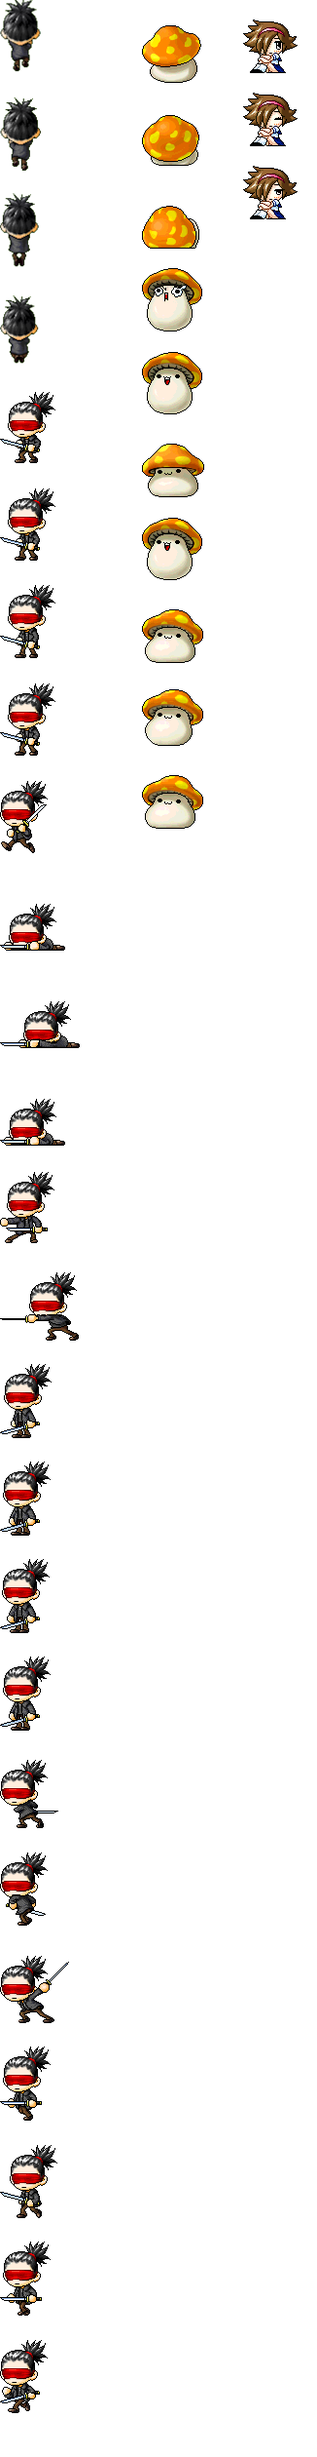
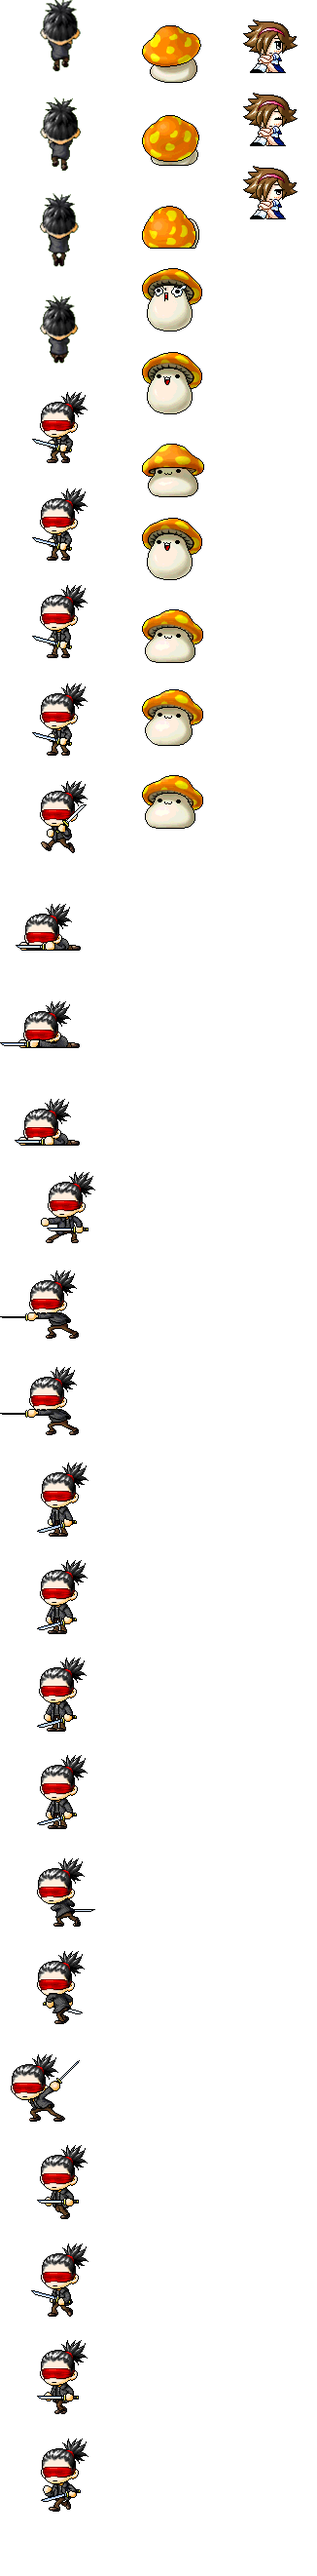
- animations fixed

Changed region(s): [[0.0, 0.0, 0.2761, 0.9905], [0.4294, 0.0, 0.6442, 0.3405], [0.7669, 0.0, 0.9202, 0.0929]]

diff --git a/src/Player.cpp b/src/Player.cpp
@@ -1,6 +1,6 @@
 #include "Player.h"
 
-constexpr auto PlayerSpeed = 80.f;
+constexpr auto PlayerSpeed = 110.f;
 constexpr auto AttackSpeed = 0.8f;
 
 Direction Player::keyToDirection()
@@ -12,7 +12,7 @@ Direction Player::keyToDirection()
         { sf::Keyboard::Right, Direction::Right },
         { sf::Keyboard::Left,  Direction::Left },
         { sf::Keyboard::Up,    Direction::Up },
-        { sf::Keyboard::Down,  Direction::Down },
+        { sf::Keyboard::Down,  Direction::Prone},
         { sf::Keyboard::LControl,  Direction::Attack1 },
         { sf::Keyboard::LAlt,  Direction::Jump },
     };
@@ -32,11 +32,19 @@ Direction Player::keyToDirection()
             case sf::Keyboard::Up:
                 break;
             case sf::Keyboard::Down:
-                break;
+                m_prone = true;
+                continue;
             case sf::Keyboard::LControl:
             {
                 m_attack = true;
                 m_attackTime.restart();
+                m_animation.resetAnimation();
+
+                if (m_prone)
+                {
+                    return Direction::ProneStab;
+                }
+
                 int attackType = rand() % 2;
                 if (attackType == 0)
                 {
@@ -44,29 +52,32 @@ Direction Player::keyToDirection()
                 }
                 return Direction::Attack2;
             }
-            break;
             }
+            m_prone = false;
             return pair.second;
         }
+    }
+    if (m_prone)
+    {
+        m_prone = false;
+        return Direction::Prone;
     }
     return Direction::Stay;
 }
 
 Player::Player(const sf::Vector2f& position)
-    : movingObject(position),
-      m_animation(Resources::instance().animationData(Resources::Player), Direction::Stay, m_sp),
-      m_attack(false), framesLeft(3)
+    : movingObject(position, Resources::Player),
+      m_attack(false), m_prone(false)
 {
-    m_sp.setOrigin(sf::Vector2f(getGlobalBounds().width / 4.f, getGlobalBounds().height / 1.5f));
+    m_sp.setOrigin(sf::Vector2f(getGlobalBounds().width / 1.7f, getGlobalBounds().height / 1.5f));
 }
 
 Player::Player(const sf::Vector2f& position, const sf::Vector2f& mapSize,
                const sf::Vector2f& resolution)
-    : movingObject(position, mapSize, resolution), 
-      m_animation(Resources::instance().animationData(Resources::Player), Direction::Stay, m_sp),
-      m_attack(false), framesLeft(3)
+    : movingObject(position, mapSize, resolution, Resources::Player),
+      m_attack(false), m_prone(false)
 {
-    m_sp.setOrigin(sf::Vector2f(getGlobalBounds().width / 4.f, getGlobalBounds().height / 1.5f));
+    m_sp.setOrigin(sf::Vector2f(getGlobalBounds().width / 1.7f, getGlobalBounds().height / 1.5f));
 }
 
 void Player::update(sf::Time delta)
@@ -74,32 +85,11 @@ void Player::update(sf::Time delta)
     // can't move during attack
     if (m_attackTime.getElapsedTime().asSeconds() >= AttackSpeed)
     {
-        m_attack = false;
-
-        // check for key input
-        m_dir = keyToDirection();
+        m_dir = keyToDirection();   // check for key input
     }
-    // move & animate player
+
+    // animate & move player
     m_animation.direction(m_dir);
     m_animation.update(delta);
-    m_sp.move(toVector(m_dir) * delta.asSeconds() * PlayerSpeed);   
+    m_sp.move(toVector(m_dir) * delta.asSeconds() * PlayerSpeed);    
 }
-
-void Player::direction(sf::Keyboard::Key key)
-{
-    /*if (auto dir = toDirection(key))
-    {
-        m_dir = *dir;
-
-        if (m_dir == Direction::Right)
-        {
-            m_sp.setScale(-1.f, 1.f);
-        }
-        else if (m_dir == Direction::Left)
-        {
-            m_sp.setScale(1.f, 1.f);
-        }
-        m_animation.direction(*dir);
-    }*/
-}
-

diff --git a/src/Resources.cpp b/src/Resources.cpp
@@ -41,7 +41,7 @@ namespace
 
     AnimationData playerData()
     {
-        const auto size = sf::Vector2i(80, 80);
+        const auto size = sf::Vector2i(110, 80);
         const auto initSpace = sf::Vector2i(0, 2);
         const auto middleSpace = sf::Vector2i(0, 20);
 
@@ -68,8 +68,14 @@ namespace
         player.m_data[Direction::Prone].emplace_back(nextStart(), size);
         player.m_data[Direction::ProneStab].emplace_back(nextStart(), size);
         player.m_data[Direction::ProneStab].emplace_back(nextStart(), size);
+        player.m_data[Direction::ProneStab].emplace_back(currentStart, size);
+        player.m_data[Direction::ProneStab].emplace_back(currentStart, size);
+        player.m_data[Direction::ProneStab].emplace_back(currentStart, size);
         player.m_data[Direction::Attack1].emplace_back(nextStart(), size);
         player.m_data[Direction::Attack1].emplace_back(nextStart(), size);
+        player.m_data[Direction::Attack1].emplace_back(nextStart(), size);
+        player.m_data[Direction::Attack1].emplace_back(currentStart, size);
+        player.m_data[Direction::Attack1].emplace_back(currentStart, size);
         player.m_data[Direction::Stay].emplace_back(nextStart(), size);
         player.m_data[Direction::Stay].emplace_back(nextStart(), size);
         player.m_data[Direction::Stay].emplace_back(nextStart(), size);
@@ -77,6 +83,8 @@ namespace
         player.m_data[Direction::Attack2].emplace_back(nextStart(), size);
         player.m_data[Direction::Attack2].emplace_back(nextStart(), size);
         player.m_data[Direction::Attack2].emplace_back(nextStart(), size);
+        player.m_data[Direction::Attack2].emplace_back(currentStart, size);
+        player.m_data[Direction::Attack2].emplace_back(currentStart, size);
         player.m_data[Direction::Left].emplace_back(nextStart(), size);
         player.m_data[Direction::Right].emplace_back(currentStart, size);
         player.m_data[Direction::Left].emplace_back(nextStart(), size);

diff --git a/src/Monster.cpp b/src/Monster.cpp
@@ -2,19 +2,17 @@
 
 #include "Resources.h"
 
-constexpr auto MonsterSpeed = 80.f;
+constexpr auto MonsterSpeed = 110.f;
 
-Monster::Monster(const sf::Vector2f& position)
-    : movingObject(position),
-    m_animation(Resources::instance().animationData(Resources::Mushroom), Direction::Stay, m_sp)
+Monster::Monster(const sf::Vector2f& position, Resources::Objects object)
+    : movingObject(position, object)
 {
     m_sp.setOrigin(sf::Vector2f(getGlobalBounds().width / 4.f, getGlobalBounds().height / 1.5f));
 }
 
 Monster::Monster(const sf::Vector2f& position, const sf::Vector2f& mapSize,
-    const sf::Vector2f& resolution)
-    : movingObject(position, mapSize, resolution),
-    m_animation(Resources::instance().animationData(Resources::Mushroom), Direction::Stay, m_sp)
+    const sf::Vector2f& resolution, Resources::Objects object)
+    : movingObject(position, mapSize, resolution, object)
 {
     m_sp.setOrigin(sf::Vector2f(getGlobalBounds().width / 4.f, getGlobalBounds().height / 1.5f));
 }

diff --git a/src/movingObject.cpp b/src/movingObject.cpp
@@ -1,14 +1,16 @@
 #pragma once
 #include "movingObject.h"
 
-movingObject::movingObject(const sf::Vector2f& position)
-	: gameObject(position)
+movingObject::movingObject(const sf::Vector2f& position, Resources::Objects object)
+	: gameObject(position),
+	  m_animation(Resources::instance().animationData(object), Direction::Stay, m_sp)
 {
 }
 
 movingObject::movingObject(const sf::Vector2f& position, const sf::Vector2f& mapSize,
-	                       const sf::Vector2f& resolution)
-	: gameObject(position, mapSize, resolution)
+	                       const sf::Vector2f& resolution, Resources::Objects object)
+	: gameObject(position, mapSize, resolution),
+	  m_animation(Resources::instance().animationData(object), Direction::Stay, m_sp)
 {
 }
 

diff --git a/src/Animation.cpp b/src/Animation.cpp
@@ -2,7 +2,7 @@
 
 #include "Resources.h"
 
-const auto AnimationTime = sf::seconds(0.3f);
+const auto AnimationTime = sf::seconds(0.2f);
 
 Animation::Animation(const AnimationData& data, Direction dir, sf::Sprite& sprite)
     : m_data(data), m_dir(dir), m_sprite(sprite)
@@ -19,20 +19,26 @@ void Animation::direction(Direction dir)
     }
 
     m_dir = dir;
-    //update();
 }
 
 void Animation::update(sf::Time delta)
 {
     m_elapsed += delta;
+
     if (m_elapsed >= AnimationTime)
     {
         m_elapsed -= AnimationTime;
         ++m_index;
         m_index %= m_data.m_data.find(m_dir)->second.size();
         update();
-    }
+    } 
 }
+
+void Animation::resetAnimation()
+{
+    m_index = -1;
+}
+
 
 void Animation::update()
 {

diff --git a/src/FileReader.cpp b/src/FileReader.cpp
@@ -67,9 +67,7 @@ bool isValid(const std::vector<string>& map, std::unique_ptr<Player>& player)
 	int playerCount = 0;
 
 	sf::Vector2f position(0, 0);  // position of object's sprite
-	//sf::Vector2f mapSize(m_mapWidth, m_mapHeight);
-	//sf::Vector2f resolution(WindowWidth, WindowHeight);
-	// 
+	
 	// stores objects in vectors
 	for (int i = 0; i < map.size(); i++)
 	{
@@ -86,7 +84,7 @@ bool isValid(const std::vector<string>& map, std::unique_ptr<Player>& player)
 			break;
 			case Monster4_Char:
 			{
-				Map::instance().movables().push_back(std::move(std::make_unique<Monster>(position)));
+				Map::instance().movables().push_back(std::move(std::make_unique<Mushroom>(position)));
 			}
 			}
 			position.x += 10.f;

diff --git a/include/movingObject.h b/include/movingObject.h
@@ -4,14 +4,15 @@
 #include "Direction.h"
 #include "Animation.h"
 #include "PhysicsData.h"
+#include "Resources.h"
 
 class movingObject : public gameObject
 {
 public:
 	// Constructors
-	movingObject(const sf::Vector2f& position);
+	movingObject(const sf::Vector2f& position, Resources::Objects object);
 	movingObject(const sf::Vector2f& position, const sf::Vector2f& mapSize,
-		         const sf::Vector2f& resolution);
+		         const sf::Vector2f& resolution, Resources::Objects object);
 	
 	// Functions
 	virtual void update(const sf::Time delta) = 0;
@@ -21,4 +22,6 @@ public:
 protected:
 	Direction m_dir = Direction::Stay;
 	PhysicsData physics;
+	Animation m_animation;
+	sf::Clock m_aiTime;
 };

diff --git a/include/Monster.h b/include/Monster.h
@@ -1,21 +1,13 @@
 #pragma once
 
-#include "Direction.h"
-#include "Animation.h"
 #include "movingObject.h"
-
-#include <SFML/Graphics.hpp>
 
 class Monster : public movingObject
 {
 public:
-    Monster(const sf::Vector2f& position);
+    Monster(const sf::Vector2f& position, Resources::Objects object);
     Monster(const sf::Vector2f& position, const sf::Vector2f& mapSize,
-        const sf::Vector2f& resolution);
+        const sf::Vector2f& resolution, Resources::Objects object);
 
     void update(sf::Time delta) override;
-
-private:
-    Animation m_animation;
-    sf::Clock m_aiTime;
 };

diff --git a/src/Mushroom.cpp b/src/Mushroom.cpp
@@ -1,0 +1,14 @@
+#include "Mushroom.h"
+
+Mushroom::Mushroom(const sf::Vector2f& position)
+    : Monster(position, Resources::Mushroom)
+{
+    m_sp.setOrigin(sf::Vector2f(getGlobalBounds().width / 4.f, getGlobalBounds().height / 1.5f));
+}
+
+Mushroom::Mushroom(const sf::Vector2f& position, const sf::Vector2f& mapSize,
+    const sf::Vector2f& resolution)
+    : Monster(position, mapSize, resolution, Resources::Mushroom)
+{
+    m_sp.setOrigin(sf::Vector2f(getGlobalBounds().width / 4.f, getGlobalBounds().height / 1.5f));
+}

diff --git a/include/Animation.h b/include/Animation.h
@@ -17,6 +17,9 @@ public:
     // updates the sprite to show the next frame in the animation
     void update(sf::Time delta);
 
+    // resets index
+    void resetAnimation();
+
 private:
     // Update the sprite to take the correct part of the texture,
     // based on current dir and index
@@ -24,7 +27,7 @@ private:
 
     const AnimationData& m_data;
     sf::Time m_elapsed = {};
-    Direction m_dir = Direction::Up;
+    Direction m_dir = Direction::Stay;
     int m_index = 0;
     sf::Sprite& m_sprite;
 };

diff --git a/include/Player.h b/include/Player.h
@@ -1,11 +1,6 @@
 #pragma once
 
-#include <optional>
-#include <SFML/Graphics.hpp>
-#include "Direction.h"
-#include "Animation.h"
 #include "movingObject.h"
-#include "Resources.h"
 
 
 class Player : public movingObject
@@ -17,11 +12,9 @@ public:
 
     Direction keyToDirection();
     void update(sf::Time delta) override;
-    void direction(sf::Keyboard::Key key);
 
 private:
-    Animation m_animation;
     bool m_attack;
+    bool m_prone;
     sf::Clock m_attackTime;
-    int framesLeft;
 };

diff --git a/src/Controller.cpp b/src/Controller.cpp
@@ -28,7 +28,7 @@ void Controller::draw()
 	m_window.clear();
 	if (auto debugSpriteSheet = 0) // use 1 to debug animation data
 	{
-		//displayAll(m_window, Resources::instance().animationData(Resources::RedDemon));
+		displayAll(m_window, Resources::instance().animationData(Resources::Player));
 	}
 	else
 	{
